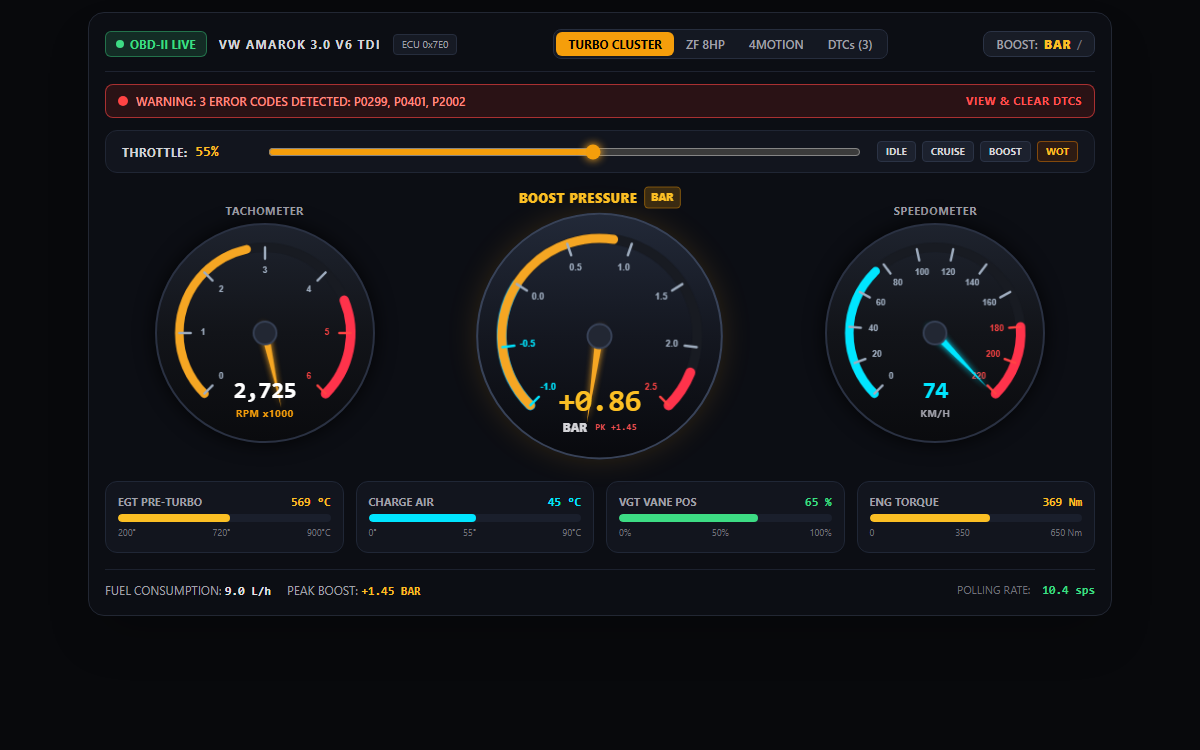
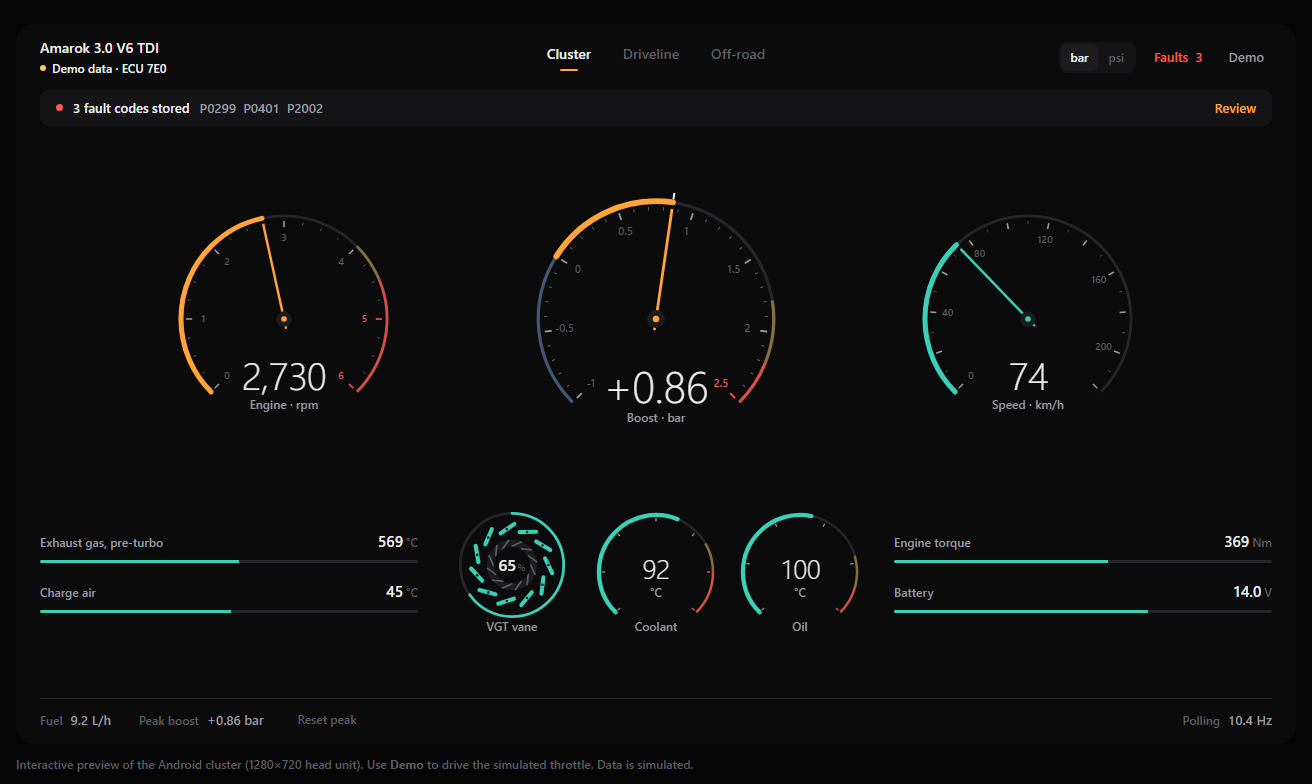
screenshots

diff --git a/README.md b/README.md
@@ -1,138 +1,170 @@
 # Project Ingwe 🐆
 
-**Glanceable OBD-II and UDS telemetry cluster for the Volkswagen Amarok 3.0 V6 TDI.**
+**A glanceable digital cluster for the VW Amarok 3.0 V6 TDI** — boost, turbo, ZF 8HP and 4Motion telemetry over OBD-II / UDS, built for 1280×720 landscape Android head units (Unisoc UIS8581A / TS18 / OYIN).
 
-Designed for 1280x720 landscape Android head units (Unisoc UIS8581A / TS18 / OYIN platform).
-Built with Jetpack Compose, Kotlin, custom Canvas gauge rendering, and direct BLE/USB transport.
+Kotlin · Jetpack Compose · custom Canvas gauges · read-only by design
 
----
+![Cluster](docs/screenshots/01_turbo_cluster.png)
 
-## Cockpit Display Overview
-
-The instrument cluster features high-contrast analog dials rendered on hardware-accelerated Compose Canvas with sub-divided graduation tracks, sweep needles, peak indicators, and digital readouts.
-
-### 1. Turbo Cluster Page
-![Turbo Cluster](docs/screenshots/01_turbo_cluster.png)
-
-* **Tachometer**: 0 to 6,000 RPM range tailored for Amarok TDI engines with an alert redline zone starting at 4,500 RPM.
-* **Precision Boost Gauge**:
-  * Seamless one-touch toggle between **BAR** (`-1.0` to `+2.5 BAR`) and **PSI** (`-15.0` to `+35.0 PSI`).
-  * Vacuum sector (`< 0`) highlighted in cyan, positive boost in amber, and overboost in red.
-  * Digital readout with peak boost hold marker (`PK`).
-* **Speedometer**: 0 to 220 km/h with center digital telemetry.
-* **Thermal and Turbo Auxiliary Meters**:
-  * **Pre-Turbo EGT**: Exhaust gas temperature before turbine inlet (`0` to `1000 °C`, warning at `720 °C`, alert at `780 °C`).
-  * **Charge Air Temp**: Intercooler discharge temperature (`0` to `90 °C`).
-  * **VGT Vane Position**: Variable turbine geometry actuator position (`0` to `100 %`).
-  * **Engine Output Torque**: Delivered flywheel torque (`0` to `650 Nm`).
+> **Status — milestone M1.** The UI is complete and runs on simulated data (use **Demo** in the header to drive the throttle). The BLE adapter transport is stubbed and lands in M3.
+> Try it in a browser first: open [`docs/mockup.html`](docs/mockup.html) — it mirrors the Android screens.
 
 ---
 
-### 2. ZF 8HP Driveline Page
-![ZF 8HP Driveline](docs/screenshots/02_zf_driveline.png)
+## Contents
 
-* **Current Gear**: Large digital indicator (`D1` through `D8`, `S1` through `S8`, `R`, `N`, `P`).
-* **Torque Converter Lockup**: Real-time clutch engagement status (`LOCKED`, `SLIP`, `OPEN`).
-* **Transmission Fluid Temp (ATF)**: Monitored via TCM address `0x7E1` (`40` to `150 °C`, warning at `105 °C`, critical at `115 °C`).
-* **Engine Torque Delivery**: Live torque input into transmission (`Nm`).
-* **Coolant and Oil Temperatures**: Operating baseline gauges.
-
----
-
-### 3. 4Motion Off-Road Page
-![4Motion Off-Road](docs/screenshots/03_4motion_offroad.png)
-
-* **Steering Wheel Angle**: Front wheel angle in degrees (`L 0-540°` / `R 0-540°`).
-* **Inclinometers**:
-  * **Pitch Angle**: Vehicle ascent and descent grade (`-45°` to `+45°`).
-  * **Roll Angle**: Lateral tilt with rollover caution (`-45°` to `+45°`).
-* **Traction Wheel Slip**: Differential wheel speed percentage across the 4Motion system.
-* **Alternator Battery Voltage**: Real-time electrical system monitoring (`10.0` to `16.0 V`).
+- [Screens](#screens)
+- [Design](#design)
+- [Safety](#safety)
+- [Signals](#signals)
+- [Build and test](#build-and-test)
+- [Install on the head unit](#install-on-the-head-unit)
+- [Recommended adapters](#recommended-adapters)
 
 ---
 
-### 4. Diagnostic Trouble Code (DTC) Page
-![DTC Diagnostics](docs/screenshots/04_dtc_diagnostics.png)
+## Screens
 
-* **MIL Status**: Live Malfunction Indicator Lamp (Check Engine Light) alert banner.
-* **ECU Targeting**: Configured for ECU address `0x7E0` (Bosch EDC17 / MD1).
-* **ECU Scanner**: OBD-II Mode 03 (Confirmed) and Mode 07 (Pending) fault interrogation.
-* **Fault Code Reset**: OBD-II Mode 04 code clearing with confirmation safety dialog.
-* **Freeze-Frame Inspection**: Engine load, RPM, target vs. actual boost, and temperature snapshots.
+### Cluster
 
----
+The main screen (shown at the top): three primary dials, three sub-dials and four bar meters.
 
-## Active Signal Definitions (`signals.json`)
+| Readout | Range | Notes |
+|---|---|---|
+| Tachometer | 0 – 6,000 rpm | Caution from 4,000, redline from 4,500 |
+| Boost | −1.0 – +2.5 bar / −15 – +35 psi | Tap **bar / psi** to switch. Vacuum in blue, overboost in red, peak-hold mark |
+| Speedometer | 0 – 220 km/h | |
+| VGT vane | 0 – 100 % | Drawn as the turbo's nozzle ring — vanes pivot from closed (tangential) to open (radial) |
+| Coolant / Oil | 40 – 130 °C / 40 – 150 °C | Blue until operating temperature, then teal; amber and red near the limit |
+| EGT pre-turbo | 200 – 900 °C | Caution 720 °C, alert 780 °C |
+| Charge air | 0 – 90 °C | Caution 55 °C, alert 70 °C |
+| Engine torque, battery | 0 – 650 Nm, 10 – 16 V | |
 
-| Signal ID | Label | ECU | Service | PID / DID | Formula | Unit | Range |
-|---|---|---|---|---|---|---|---|
-| `rpm` | Engine RPM | 7E0 | 01 | 0C | `((A*256)+B)/4` | rpm | 0 - 5000 |
-| `vehicle_speed` | Vehicle Speed | 7E0 | 01 | 0D | `A` | km/h | 0 - 200 |
-| `engine_load` | Engine Load | 7E0 | 01 | 04 | `A*100/255` | % | 0 - 100 |
-| `coolant_temp` | Coolant Temp | 7E0 | 01 | 05 | `A-40` | °C | -40 - 130 |
-| `intake_air_temp` | Intake Air Temp | 7E0 | 01 | 0F | `A-40` | °C | -40 - 100 |
-| `oil_temp` | Engine Oil Temp | 7E0 | 01 | 5C | `A-40` | °C | -40 - 160 |
-| `battery_voltage` | Battery Voltage | 7E0 | 01 | 42 | `((A*256)+B)/1000` | V | 10 - 16 |
-| `fuel_rate` | Fuel Rate | 7E0 | 01 | 5E | `((A*256)+B)*0.05` | L/h | 0 - 50 |
-| `boost_actual` | Actual Boost | 7E0 | 01 | 6F | `B` | kPa abs | 0 - 400 |
-| `boost_target` | Target Boost | 7E0 | 01 | 70 | `B` | kPa abs | 0 - 400 |
-| `egt_pre_turbo` | Pre-Turbo EGT | 7E0 | 01 | 78 | `((C*256)+D)*0.1-40` | °C | 0 - 1000 |
-| `charge_air_temp` | Intercooler Temp | 7E0 | 01 | 77 | `B-40` | °C | -20 - 120 |
-| `turbo_vgt_duty` | VGT Vane Position | 7E0 | 01 | 7D | `A*100/255` | % | 0 - 100 |
-| `engine_torque` | Engine Torque | 7E0 | 01 | 62 | `((A*256)+B)-500` | Nm | 0 - 750 |
-| `trans_fluid_temp` | ATF Fluid Temp | 7E1 | 22 | 11A8 | `A-40` | °C | 0 - 150 |
-| `trans_gear` | Current Gear | 7E1 | 22 | 1002 | `A` | gear | 1 - 8 |
-| `trans_lockup` | Lockup State | 7E1 | 22 | 1003 | `A` | state | 0 - 2 |
-| `steering_angle` | Steering Angle | 7E2 | 22 | 0250 | `((A*256)+B)*0.1-540` | ° | -540 - 540 |
-| `wheel_slip` | Wheel Slip | 7E2 | 22 | 0251 | `A*0.5` | % | 0 - 50 |
-| `pitch_angle` | Pitch Angle | 7E2 | 22 | 0252 | `A-45` | ° | -45 - 45 |
-| `roll_angle` | Roll Angle | 7E2 | 22 | 0253 | `A-45` | ° | -45 - 45 |
+### Driveline (ZF 8HP)
 
----
+![Driveline](docs/screenshots/02_zf_driveline.png)
 
-## USB Installation Guide for Android Radio (UIS8581A / TS18)
+- **Gear** — large indicator (`D1`–`D8`, `S1`–`S8`, `R`, `N`, `P`).
+- **Converter lockup** — locked, slipping or open.
+- **ATF temperature** — from the TCM at `0x7E1`; caution 105 °C, alert 115 °C.
+- **Engine torque, coolant and oil** alongside.
 
-Since your head unit has a USB slot or USB cable in the glovebox/console, you can install the app directly in under 2 minutes without needing Developer Options or ADB:
+### Off-road (4Motion)
 
-### Step 1: Format the USB Drive
-* Use any standard USB flash drive.
-* Format it on your PC as **FAT32** or **exFAT** (Android radios read FAT32 most reliably).
+![Off-road](docs/screenshots/03_4motion_offroad.png)
 
-### Step 2: Copy the APK
-* Copy the compiled `app-debug.apk` file directly onto the USB drive (do not put it inside deep nested folders).
+- **Steering** — a wheel graphic that turns with the real steering angle.
+- **Pitch and roll** — side-view and rear-view truck silhouettes tilt against a level line, turning amber and red as the angle grows (pitch 25° / 35°, roll 20° / 30°).
+- **Drivetrain diagram** — top-down chassis with each wheel coloured by its slip (teal < 6 %, amber < 15 %, red above).
+- **Differentials** — Torsen centre diff with the live front:rear torque split, and rear diff lock state.
 
-### Step 3: Connect to the Radio
-* Plug the USB flash drive into the USB port or cable lead of your Android radio.
-* Wait a few seconds until the radio displays a notification like `USB Drive Connected` or `External Storage Mounted`.
+> Per-wheel slip, rear-lock state and torque split are simulated in M1; their UDS identifiers are not yet in `signals.json`.
 
-### Step 4: Open File Manager and Install
-1. Open the radio's app drawer.
-2. Launch the pre-installed **File Manager** (on some Chinese radios, this app is named **Files**, **File Explorer**, or **ApkInstaller**).
-3. Select your USB drive from the storage list on the left.
-4. Tap `app-debug.apk`.
-5. Tap **Install**.
+### Fault codes
 
-### Step 5: Grant Permission if Prompted
-* If Android displays a security dialog stating: `"For your security, your phone is not allowed to install unknown apps from this source"`, tap **Settings** on that dialog.
-* Toggle the switch for **Allow from this source** to **ON**.
-* Press the back arrow and tap **Install** again.
-* Once installation completes, tap **Open**. The AmarokDash cluster will appear on your radio screen.
+![Fault codes](docs/screenshots/04_dtc_diagnostics.png)
+
+- Stored, pending and permanent codes from the engine ECU (`0x7E0`, Bosch EDC17).
+- Tap a code for its freeze frame and common Amarok causes.
+- **Clear codes** asks for confirmation first (see [Safety](#safety)).
+- The cluster shows a quiet banner and a red **Faults** count while any code is stored.
 
 ---
 
-## Factory Settings Reference Passwords
+## Design
 
-Common passwords for the UIS8581A / OYIN / TS18 platform if prompted by system menus:
-* `8888`
-* `3368`
-* `1234` or `123456`
-* `1617` or `16176699`
-* `0000`
+- **Colour means something.** Greys carry the layout. Amber marks the hero dials and the active tab; teal means "in normal range"; blue is cold or vacuum; amber-yellow is caution; red is over the limit.
+- **Numbers don't jump.** All readouts use tabular figures.
+- **No chrome.** No glows, gradients or coloured borders — space and hairlines group things.
+
+Theme tokens live in [`Theme.kt`](app/src/main/java/io/ingwe/dash/ui/theme/Theme.kt); gauges in [`ui/components/gauges/`](app/src/main/java/io/ingwe/dash/ui/components/gauges).
 
 ---
 
-## Recommended Hardware Adapters
+## Safety
 
-* **Vgate vLinker MC+ (Bluetooth 4.0 / BLE)**: Fully compatible with the Amarok CAN network, supports high-speed baud rates and multi-frame UDS polling.
-* **Vgate vLinker FS (Wired USB)**: Connects directly to the head unit USB port for continuous wired communication with zero Bluetooth latency.
-* **OBDLink CX / MX+ (BLE)**: High throughput and stable command pipelining.
+Ingwe is a **read-only** tool. Every command passes through [`TransportGuard`](app/src/main/java/io/ingwe/dash/data/transport/TransportGuard.kt) before it reaches the adapter:
+
+- Only these services are allowed: `01` live data, `03` / `07` / `0A` fault codes, `09` vehicle info, UDS `19` read DTCs and `22` read data.
+- Write, reset, security-access, routine and actuator services are rejected.
+- Clearing codes (`04`, UDS `14`) is blocked until explicitly unlocked, and the UI confirms before clearing.
+- Whitespace is stripped first (the ELM327 ignores it, so `0 4` is Mode 04), and malformed input is rejected rather than passed through.
+
+[`TransportAllowlistTest`](app/src/test/java/io/ingwe/dash/TransportAllowlistTest.kt) covers each rule.
+
+---
+
+## Signals
+
+Defined in [`app/src/main/assets/signals.json`](app/src/main/assets/signals.json). Adding a signal needs no code change. `A`–`D` are the response data bytes.
+
+| ID | Signal | ECU | Svc | PID / DID | Formula | Unit | Range | Verified |
+|---|---|---|---|---|---|---|---|:---:|
+| `rpm` | Engine speed | 7E0 | 01 | 0C | `((A*256)+B)/4` | rpm | 0 – 5000 | ✓ |
+| `vehicle_speed` | Vehicle speed | 7E0 | 01 | 0D | `A` | km/h | 0 – 200 | ✓ |
+| `engine_load` | Engine load | 7E0 | 01 | 04 | `A*100/255` | % | 0 – 100 | ✓ |
+| `coolant_temp` | Coolant | 7E0 | 01 | 05 | `A-40` | °C | −40 – 130 | ✓ |
+| `intake_air_temp` | Intake air | 7E0 | 01 | 0F | `A-40` | °C | −40 – 100 | ✓ |
+| `oil_temp` | Engine oil | 7E0 | 01 | 5C | `A-40` | °C | −40 – 160 | ✓ |
+| `battery_voltage` | Battery | 7E0 | 01 | 42 | `((A*256)+B)/1000` | V | 10 – 16 | ✓ |
+| `fuel_rate` | Fuel rate | 7E0 | 01 | 5E | `((A*256)+B)*0.05` | L/h | 0 – 50 | ✓ |
+| `boost_actual` | Boost, actual | 7E0 | 01 | 6F | `B` | kPa abs | 0 – 400 | ✓ |
+| `boost_target` | Boost, target | 7E0 | 01 | 70 | `B` | kPa abs | 0 – 400 | – |
+| `egt_pre_turbo` | EGT pre-turbo | 7E0 | 01 | 78 | `((C*256)+D)*0.1-40` | °C | 0 – 1000 | ✓ |
+| `charge_air_temp` | Charge air | 7E0 | 01 | 77 | `B-40` | °C | −20 – 120 | ✓ |
+| `turbo_vgt_duty` | VGT vane position | 7E0 | 01 | 7D | `A*100/255` | % | 0 – 100 | – |
+| `engine_torque` | Engine torque | 7E0 | 01 | 62 | `((A*256)+B)-500` | Nm | 0 – 750 | ✓ |
+| `trans_fluid_temp` | ATF temperature | 7E1 | 22 | 11A8 | `A-40` | °C | 0 – 150 | ✓ |
+| `trans_gear` | Gear | 7E1 | 22 | 1002 | `A` | — | 1 – 8 | ✓ |
+| `trans_lockup` | Converter lockup | 7E1 | 22 | 1003 | `A` | state | 0 – 2 | ✓ |
+| `steering_angle` | Steering angle | 7E2 | 22 | 0250 | `((A*256)+B)*0.1-540` | ° | −540 – 540 | ✓ |
+| `wheel_slip` | Wheel slip | 7E2 | 22 | 0251 | `A*0.5` | % | 0 – 50 | ✓ |
+| `pitch_angle` | Pitch | 7E2 | 22 | 0252 | `A-45` | ° | −45 – 45 | ✓ |
+| `roll_angle` | Roll | 7E2 | 22 | 0253 | `A-45` | ° | −45 – 45 | ✓ |
+
+Signals marked – haven't been confirmed on a real ECU yet.
+
+---
+
+## Build and test
+
+Requirements: JDK 17 and the Android SDK (compile SDK 35, min SDK 31).
+
+```powershell
+.\gradlew.bat assembleDebug
+```
+
+```powershell
+.\gradlew.bat testDebugUnitTest
+```
+
+The APK is written to `app/build/outputs/apk/debug/app-debug.apk`. Unit tests cover ISO-TP reassembly, response parsing, formula evaluation, the mock adapter and the safety allowlist.
+
+---
+
+## Install on the head unit
+
+No ADB or developer options needed — a USB stick is enough.
+
+1. **Prepare the stick.** Format a USB drive as **FAT32** (most reliable on these radios) and copy `app-debug.apk` to its root.
+2. **Plug it in.** Wait for a "USB drive connected" or "storage mounted" notice.
+3. **Install.** Open the radio's file manager (it may be called *Files*, *File Explorer* or *ApkInstaller*), pick the USB drive, tap `app-debug.apk`, then **Install**.
+4. **Allow the source if asked.** If Android says it can't install unknown apps from this source, tap **Settings**, turn on **Allow from this source**, go back and tap **Install** again.
+5. **Open** — the cluster starts in landscape and keeps the screen on.
+
+<details>
+<summary>Factory-menu passwords for UIS8581A / OYIN / TS18 units</summary>
+
+If a system menu asks for a code, try: `8888`, `3368`, `1234`, `123456`, `1617`, `16176699`, `0000`.
+
+</details>
+
+---
+
+## Recommended adapters
+
+| Adapter | Link | Why |
+|---|---|---|
+| Vgate vLinker MC+ | Bluetooth LE | Handles the Amarok CAN bus and multi-frame UDS well |
+| Vgate vLinker FS | Wired USB | Plugs into the head unit directly — no Bluetooth latency |
+| OBDLink CX / MX+ | Bluetooth LE | High throughput, stable command pipelining |
